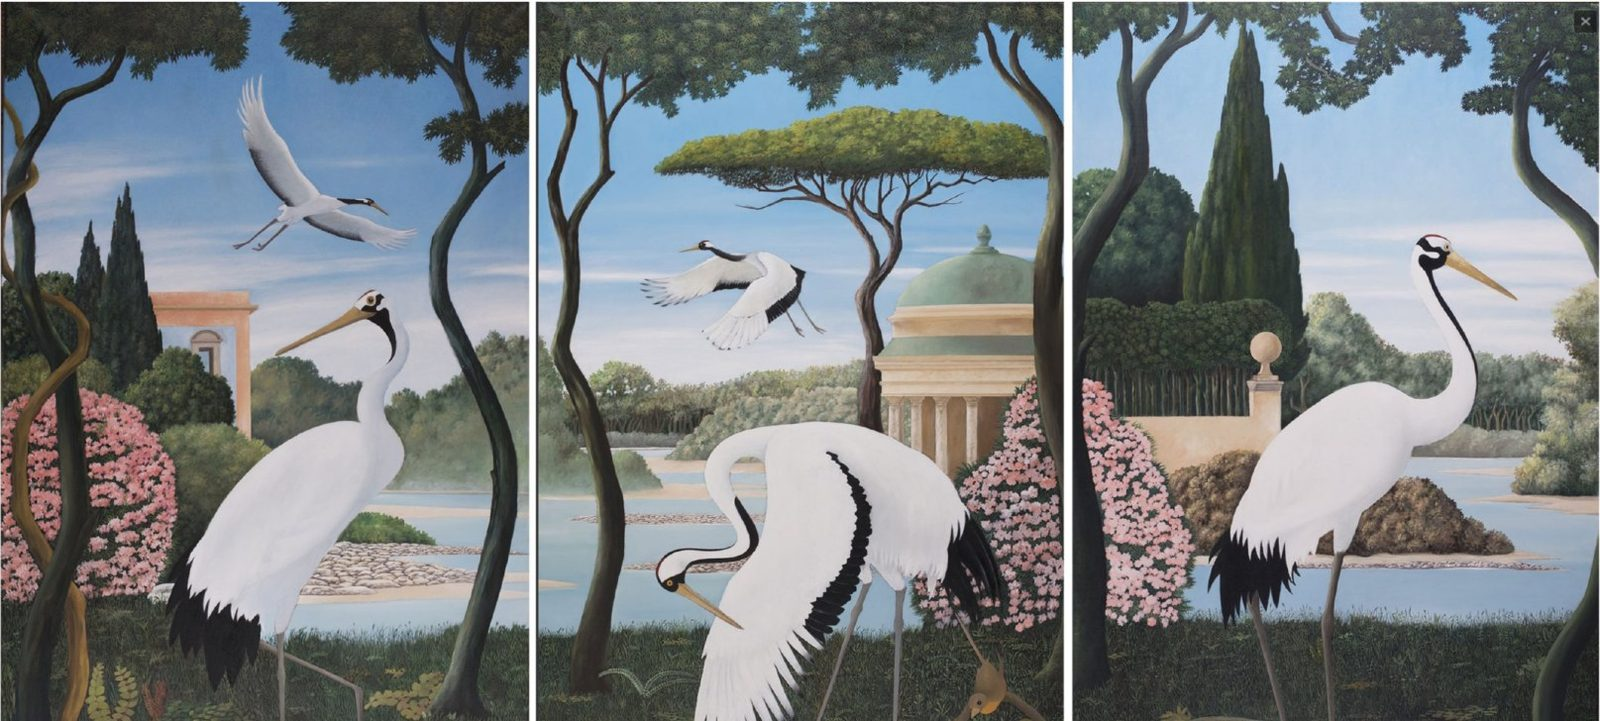
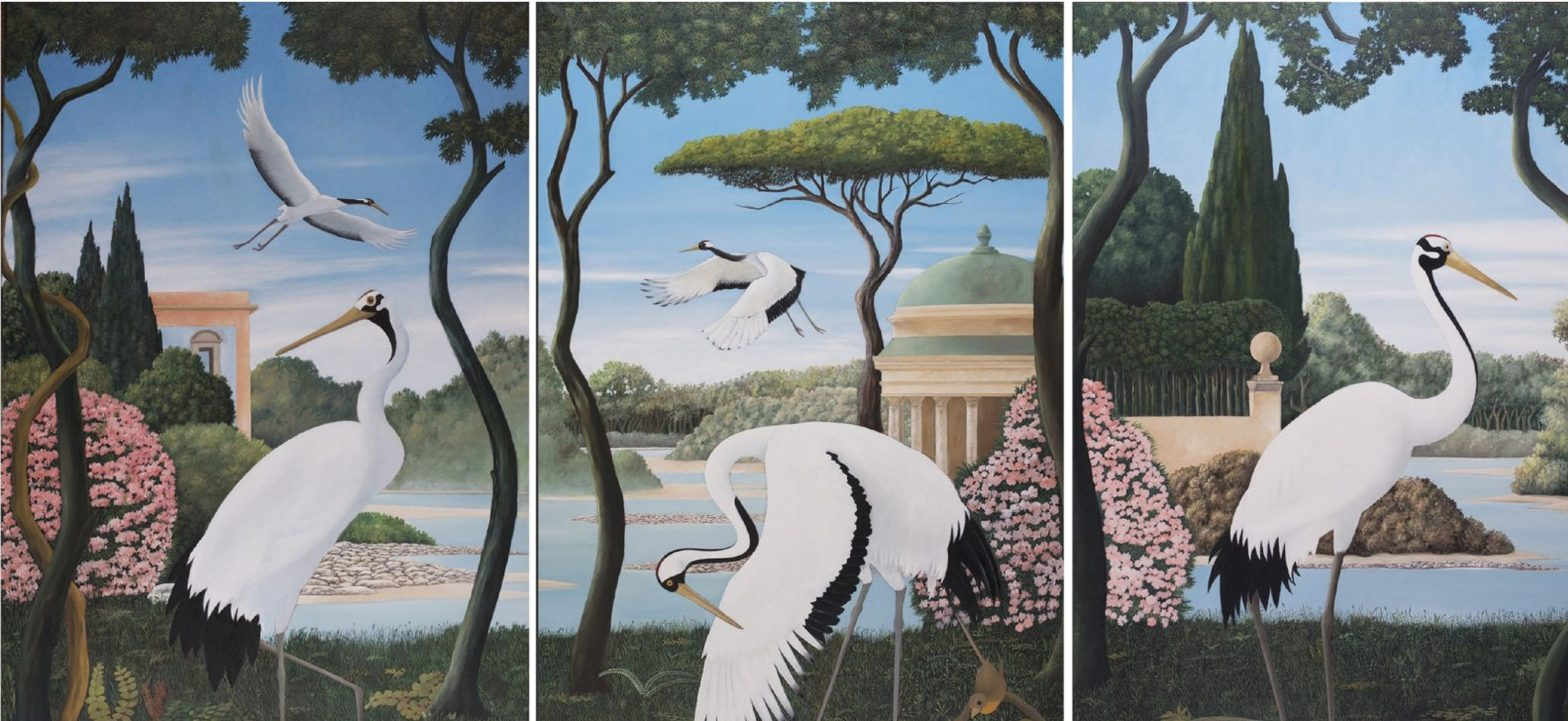
Proof images: crop the lightbox X off the storks triptych and the slide border off the St. Regis bar
Lossless jpegtran crops (-perfect, no re-encode): storks-triptych.jpg 1600x721 to
1568x721, stregis-bar.jpg 1600x1095 to 1456x877 (the photograph only). The law-firms
after image stays at its native 1536 px: no larger original exists.

diff --git a/hotels/index.html b/hotels/index.html
@@ -508,7 +508,7 @@
   <div class="head reveal"><div class="lead"><p class="eyebrow"><span data-l="en" lang="en">Hospitality</span><span data-l="he" lang="he" dir="rtl">אירוח</span></p><h2 class="serif"><span data-l="en" lang="en">Where can you see my hospitality work?</span><span data-l="he" lang="he" dir="rtl">איפה אפשר לראות את העבודה שלי בתחום האירוח?</span></h2><p class="muted" style="font-size: 17px; max-width: 760px;"><span data-l="en" lang="en">Concepts and collections built while collaborating with luxury hospitality leaders.</span><span data-l="he" lang="he" dir="rtl">קונספטים ואוספים שנבנו בשיתוף פעולה עם מובילים בתחום האירוח היוקרתי.</span></p></div></div>
   <div class="grid3">
     <a class="card reveal" href="/projects/hotels-and-hospitality-collections/"><div class="ph"><img src="/images/projects/waldorf-lobby.jpg" alt="Lobby of the Waldorf Astoria Chengdu with sculptural artworks" data-alt-he="הלובי של Waldorf Astoria Chengdu עם עבודות פיסוליות" width="1500" height="585" loading="lazy" decoding="async"></div><h3 class="serif"><span data-l="en" lang="en">Waldorf Astoria Chengdu</span><span data-l="he" lang="he" dir="rtl">וולדורף אסטוריה צ&#x27;נגדו</span></h3><p class="muted"><span data-l="en" lang="en">China. Sculptural works for the lobby.</span><span data-l="he" lang="he" dir="rtl">סין. עבודות פיסוליות ללובי.</span></p></a>
-    <a class="card reveal" href="/projects/hotels-and-hospitality-collections/"><div class="ph"><img src="/images/projects/stregis-bar.jpg" alt="The bar at the St. Regis Amman with its horse mosaic" data-alt-he="הבר ב-St. Regis Amman עם פסיפס הסוסים" width="1600" height="1095" loading="lazy" decoding="async"></div><h3 class="serif"><span data-l="en" lang="en">St. Regis Amman</span><span data-l="he" lang="he" dir="rtl">סנט רג&#x27;יס עמאן</span></h3><p class="muted"><span data-l="en" lang="en">Jordan. A bar with a horse mosaic, the guest rooms and the residences.</span><span data-l="he" lang="he" dir="rtl">ירדן. בר עם פסיפס סוסים, חדרי האורחים ודירות המגורים.</span></p></a>
+    <a class="card reveal" href="/projects/hotels-and-hospitality-collections/"><div class="ph"><img src="/images/projects/stregis-bar.jpg" alt="The bar at the St. Regis Amman with its horse mosaic" data-alt-he="הבר ב-St. Regis Amman עם פסיפס הסוסים" width="1456" height="877" loading="lazy" decoding="async"></div><h3 class="serif"><span data-l="en" lang="en">St. Regis Amman</span><span data-l="he" lang="he" dir="rtl">סנט רג&#x27;יס עמאן</span></h3><p class="muted"><span data-l="en" lang="en">Jordan. A bar with a horse mosaic, the guest rooms and the residences.</span><span data-l="he" lang="he" dir="rtl">ירדן. בר עם פסיפס סוסים, חדרי האורחים ודירות המגורים.</span></p></a>
     <a class="card reveal" href="/projects/hotels-and-hospitality-collections/"><div class="ph"><img src="/images/projects/hal-restaurant.jpg" alt="Restaurant on a Holland America Line ship with artwork on the walls" data-alt-he="מסעדה באוניית Holland America Line עם יצירות אמנות על הקירות" width="1230" height="1167" loading="lazy" decoding="async"></div><h3 class="serif"><span data-l="en" lang="en">Holland America Line</span><span data-l="he" lang="he" dir="rtl">הולנד אמריקה ליין</span></h3><p class="muted"><span data-l="en" lang="en">Restaurant and stateroom art for its ships.</span><span data-l="he" lang="he" dir="rtl">אמנות למסעדות ולתאי הנוסעים באוניות שלה.</span></p></a>
   </div>
 </section>

diff --git a/AGENTS.md b/AGENTS.md
@@ -147,6 +147,7 @@ Report failures honestly. If a check fails after the cache window, say so; do no
 
 ## 7. Work Log (append-only, newest first, one line per change)
 
+- 2026-11-15 (ET) | Claude (Theo builder, branch audit-fixes-2026-11-15) | Site audit play 3 (the crops; labels wait for words), lossless crops only, jpegtran -perfect -copy all, no re-encode: (a) images/projects/storks-triptych.jpg 1600 by 721 to 1568 by 721, the right 32 px off, which carried the lightbox close button (a dark square with a white X at x 1574 to 1597, y 10 to 33); the smallest lossless crop that clears it: the three panels keep their height and the left and middle panels are untouched, the right panel loses a 32 px strip of foliage at its outer edge (a top crop would have taken 48 rows off all three). (b) images/projects/stregis-bar.jpg 1600 by 1095 to 1456 by 877 from x 80, y 80: the photograph alone, without the black slide border and the baked-in words St. Regis Amman, Jordan (the crop starts on the 16 px block grid, so 14 px of dark wall at the left edge and 15 rows of dark ceiling go with the border). Luma identical to the original region (at most 1 level of decoder rounding). The pages read their sizes from the files at build time (/hotels/ now says 1456 by 877); nothing hard-coded. (c) not done: images/home2/variants/law-firms/law-firms_after.webp stays at its native 1536 px; the only 1800 px versions in history are the earlier artwork (before 2026-09-30) and an upscale of this 1536 px render (24fe6049), which the 2026-10-06 quality pass undid. | Draft, not pushed
 - 2026-11-15 (ET) | Claude (Theo builder, branch audit-fixes-2026-11-15) | Site audit play 7 (second half), form source fields, nothing visible: site_chrome.contact_form() gains two hidden inputs after page, landing_page and referrer, in the one form the pop-up and the inline cards share; form_js() fills them from one sessionStorage entry written on the visit's first page in the tab (theodoraVisit: that page's path, and the host and path of document.referrer when it is another site, never its query string or fragment) and again after a send. Every visible field, its order, defaults and wording unchanged; content rule 12 lists the two fields. Checked in headless Chromium with Formspree blocked, no submission: a visit that lands on the cost page from a Google search and moves to /art-curator-new-jersey/ carries landing_page /advisory/what-does-an-art-advisor-cost/ and referrer www.google.com/search in both forms; a direct visit carries an empty referrer. Real browsers usually send only the origin across sites, so most referrers will read as a bare host with /. | Draft, not pushed
 - 2026-11-15 (ET) | Claude (Theo builder, branch audit-fixes-2026-11-15) | Site audit play 6, wayfinding, no new wording: (b) build-site-pages.py render_article_page: the From Art Radar strip now follows the closing block (the ask, Read next) on the 24 advisory pages, Tenafly, Bergen County, Westchester, /for-brokers/ and /for-advisors/, and on /art-curator-new-jersey/ and /art-curator-new-york/ it follows the inline form and the closing block under it (form, then the closing line, then the strip), as the guides already had it; /for-designers/ keeps its order (strip, reviews, ask: RADAR_BEFORE_ASK). (c) /contact/ under 861px: the form comes before Or reach me directly (css/theme.css, .contact-page .act-left display: contents and order on .act-form and .act-ways; the markup order and the desktop card are unchanged; on a 390 px phone the form now starts at 720 px, was 903). (a) not built: /for-brokers/ and /for-advisors/ have no short name with a Hebrew twin in the source (their titles and in-body anchors only), so the footer stays as it is until a label is approved. | Draft, not pushed
 - 2026-11-15 (ET) | Claude (Theo builder, branch audit-fixes-2026-11-15) | Site audit play 5, accessibility, no visible wording: (a) 404.html (hand written) gets the viewport meta the generated pages use, so a phone renders it at device width (was about 980 px wide). (b) museum/index.html and museum/gallery/index.html (both hand written; the artist pages already had a plain viewport) drop maximum-scale=1.0 and user-scalable=no; the timeline stage and the gallery canvas keep touch-action: none, so their own pan, zoom and walk gestures are unchanged; nothing else on the museum changed (its sitemap lastmod moved with the meta). (c) A main landmark: site_chrome.main() wraps each generated page's own content between the nav and the footer (build-site-pages.py: articles, projects, hubs, /about/, /contact/; build-post-pages.py: the /radar/ archive; templates/home.html: inside .page, from #intro to the last section, so the homepage and every buyer page). On /guide/ it starts after the sticky category bar, which inside main would let go above the footer. The post pages already had one. 116 of 116 sitemap pages now carry exactly one. Checked in headless Chromium, reduced motion, 8 pages (home, /hotels/, the cost page, Closter, /guide/ also scrolled to the end, /radar/, /about/, /contact/) at 1440 and 390: 16,518 element boxes, 0 moved; full-page screenshots 0 changed pixels beyond the run-to-run noise of the unchanged build. (d) The form's field underline and chip border: rgba(242,240,236,0.28) to 0.36, the same hue, #565659 to #686769 on the card ground #1A1A20, 2.37:1 to 3.08:1 (3.06:1 on #0F0F14). dir on html untouched. | Draft, not pushed
